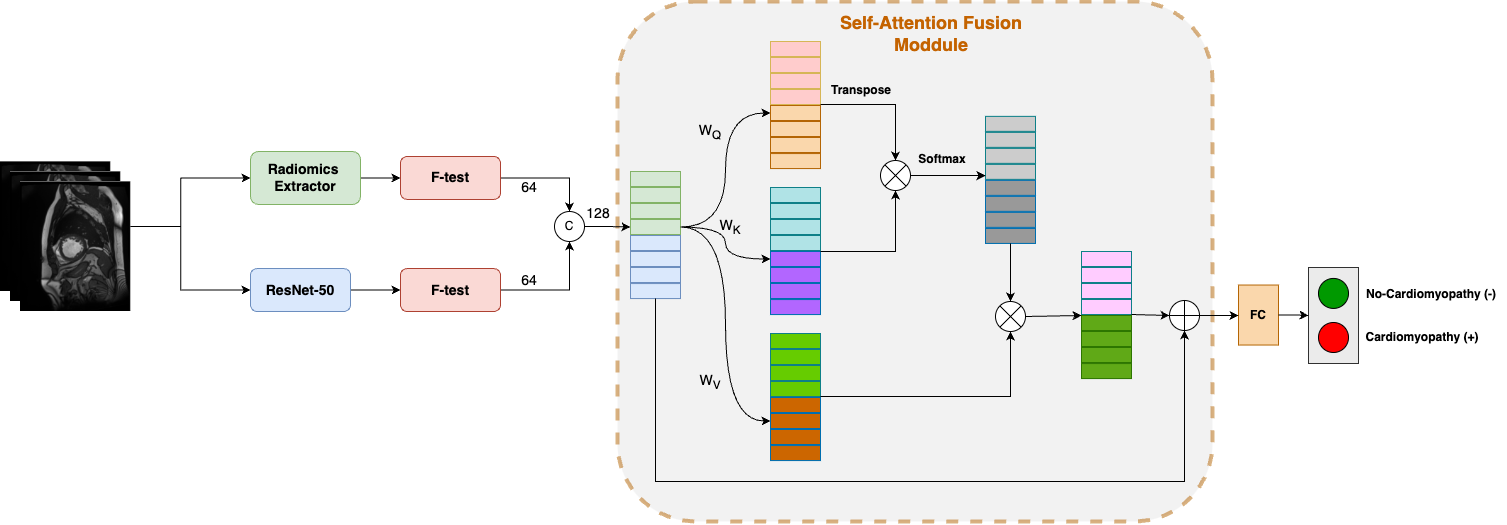
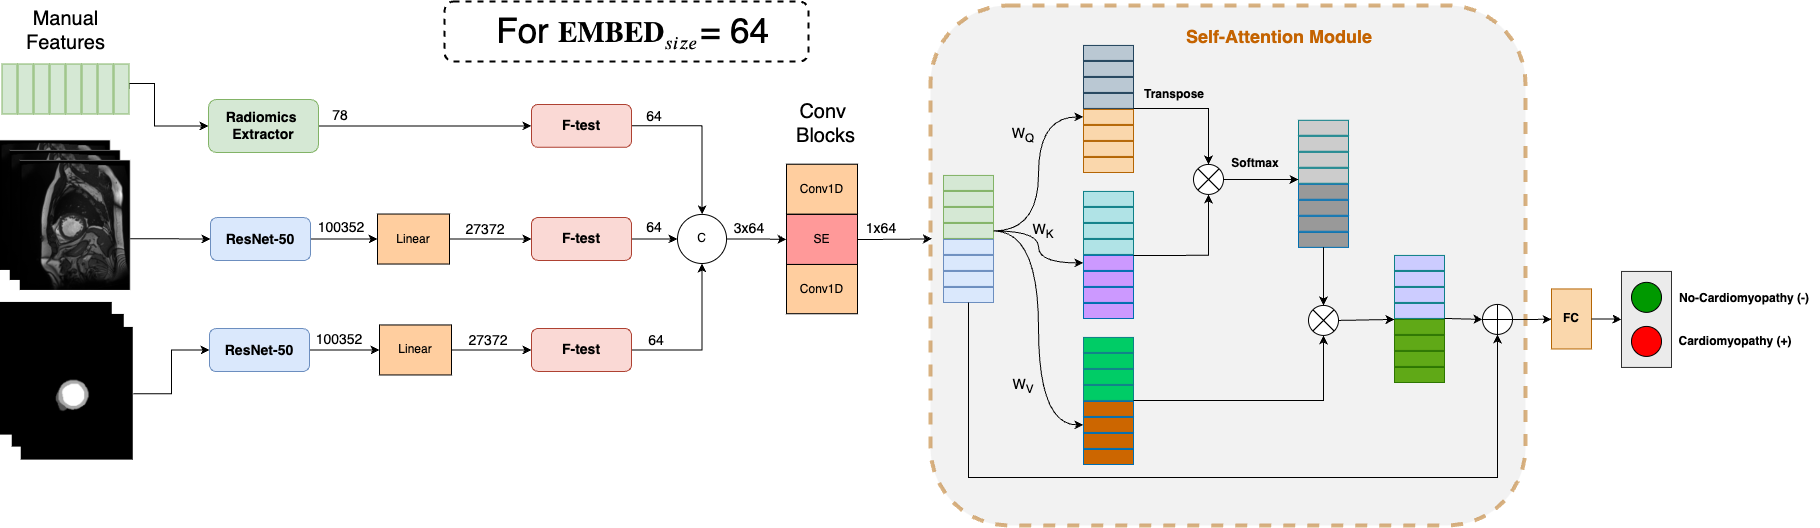
Ech chap 4

diff --git a/04-metodologia.tex b/04-metodologia.tex
@@ -1,12 +1,15 @@
 \chapter{METODOLOGIA} 
 \label{chap:metodologia}
 
-A metodologia deste trabalho visa propor e investigar arquiteturas de \gls{AP} que unificam características radiômicas e características profundas. Em uma primeira fase, será aplicado um modelo base ao conjunto de dados público para cadriomiopatia \gls{ACDC}. O modelo base selecionado consta nos trabalhos relacionados e  \cite{aiSelfAttentionBasedFusion2023} e o esquemático de sua arquitetura é visto na Figura \ref{fig:fig008}. Importante ressaltar que o trabalho em questão é aplicado no cenário de câncer de pulmão de células não pequenas e este trabalho as mesmas técnicas para o cenário de cardiomiopatia e com isto obter as percepções. 
+\textcolor{red}{
+< < -------------- CAPÍTULO READAPTADO - LER NOVAMENTE -------------- > >
+}
 
-Nesta primeira fase, foi aplicado o pré-processamento composto por diversas técnicas de aprendizado de máquina para extrair características manuais de imagens de RM e sua respectiva máscara, abrangendo textura, forma, escala de cinza, etc. Estas características serão chamadas, deste ponto em diante, de características radiômicas. Outra etapa de pré-processamento, processa as imagens de RM em uma rede \textit{ResNet50} pré-treinada, extraindo características que serão intituladas de características profundas. As características profundas encapsulam informações semânticas de alto nível e de representação das imagens de \gls{RMC}. Estas características são então fundidas em um vetor de características unificado e aplicado a um único bloco de autoatenção, e obtendo ao fim da arquitetura do modelo base, as classificação indicando se há ou não cardiomiopatia, ou seja, uma classificação binária.
+A metodologia deste trabalho visa propor e investigar arquiteturas de \gls{AP} que unificam características radiômicas e características profundas. O modelo base selecionado é uma versão adaptada do trabalho \cite{aiSelfAttentionBasedFusion2023}, encontrado nos trabalhos relacionados e o esquemático de sua arquitetura pode ser visto na Figura \ref{fig:fig008}. Importante ressaltar que o trabalho em questão é aplicado no cenário de câncer de pulmão de células não pequenas e este trabalho pretende aplicar o mesmo estudo no cenário de cardiomiopatia hipertrófica.
 
-Na segunda fase, foram feitas diversas adaptações ao modelo base com o intuito de aprimorar a robustez e a acurácia. Algumas adaptações feitas consistem no aumento do tamanho dos vetores semânticos, também conhecidos na literatura como \textit{embeddings}, seu tamanho foi mudado de 12 para 64 no intuito de preservar mais informações ao custo de aumento quase irrelevante de custo computacional. A concatenação dos \textit{embeddings} também foi adaptada se comparada ao modelo original. Na versão original a concatenação se dá na última dimensão enquanto a no modelo resultante do estudo se dá na primeira. Em termos práticos, na abordagem original dois vetores $1\text{x}12$ concatenados resultam em $1\text{x}24$, na abordagem adaptada resultam em $2\text{x}12$. A versão adaptada também conta com uma camada convolucional visando obter informação relevante entre os \textit{embeddings}. Uma camada de atenção seletiva também foi adicionada no formato de um bloco \gls{SE} que precedeo o bloco autoatenção. Testes com os hiperparâmetros também aprimoraram os resultados, ao aplicar a camada de autoatenção $N$ vezes ao invés de uma única vez como acontece no modelo base, também foi perceptível uma melhora nos resultados. Enquanto o bloco de seleção seletiva atua na relação entre os canais dos \textit{embeddings}, o bloco de autoatenção otimiza e pondera o vetor de características fundidas de forma eficaz. A Figura \ref{fig:fig015} confere o fluxograma do projeto ilustrando de forma esquemática as fases que serão atuadas.
+ O trabalho será dividido em duas fase. Na primeira fase, será aplicado um modelo base, conforme trabalho selecionado, ao conjunto de dados público \gls{ACDC}. Na etapa de pré-processamento da fase um, é aplicado diversas técnicas de aprendizado de máquina para extrair características manuais de imagens de RM e sua respectiva máscara, abrangendo textura, forma, escala de cinza, etc. Estas características serão chamadas, deste ponto em diante, de características radiômicas. Seguindo com no pré-processamento, as imagens de RM também são aplicadas a uma rede \textit{ResNet50} pré-treinada, extraindo características que serão intituladas de características profundas. As características profundas encapsulam informações semânticas de alto nível e de representação das imagens de \gls{RMC}. Estas características, radiômicas e profundas, são então fundidas em um vetor de características unificado e aplicado a um único bloco de autoatenção, e obtendo ao fim da arquitetura do modelo base, as classificação indicando se há ou não cardiomiopatia, ou seja, uma classificação binária. Isto compreende a fase um com as mesmas informações do trabalho e modelo originais.
 
+Na segunda fase, diversas adaptações foram aplicadas ao modelo base com o intuito de aprimorar a robustez e a acurácia. Algumas das adaptações feitas consistem no aumento do tamanho dos vetores semânticos, também conhecidos na literatura como \textit{embeddings}, seu tamanho foi variado também entre 12, 24, 48 e 64, valores testados de forma análoga a um hiperparâmetro, com a premissa de preservar mais das informações originais ao custo do aumento quase irrelevante de custo computacional. A concatenação dos \textit{embeddings} também foi adaptada se comparada ao modelo original. Na versão original a concatenação se dá na última dimensão enquanto que nas versões adaptadas se dá na primeira dimensão. Em termos práticos, na versão original dois vetores $1\text{x}12$ concatenados resultam em $1\text{x}24$, na abordagem adaptada resultam em $2\text{x}12$. A mudança na forma de concatenar é proposital pois a versão adaptada conta com uma camada convolucional inédita se comparada com a versão original, visando extrair informação relevante da junção dos \textit{embeddings}. A versão adaptada adiciona também uma camada de atenção seletiva no formato de um bloco \gls{SE} que precede o bloco de autoatenção. Outra mundaça na versão adaptada é o bloco de autoatenção ser aplicado $N$ vezes ao invés de uma única vez como acontece no modelo base trazendo uma perceptível melhora nos resultados. Lembrando que ambos mecanismos de atenção tem propostas diferentes, enquanto o bloco de atenção seletiva atua na relação entre os canais dos \textit{embeddings}, o bloco de autoatenção otimiza e pondera o vetor de características fundidas de forma eficaz. A intuição de aplicar mecanismos de atenção com propósitos diferentes vem do trabalho de \cite{yangNeuralNetworkDesign2024a}. A Figura \ref{fig:fig015} confere o fluxograma do projeto ilustrando de forma esquemática as fases que serão atuadas.
 
 \begin{figure}[h!]
     \centering
@@ -20,14 +23,13 @@ Na segunda fase, foram feitas diversas adaptações ao modelo base com o intuito
 \section{Bases de Dados} 
 \label{subsec:cap4_dataset}
 
-Duas bases de dados foram utilizadas no experimento. O primeiro conjunto de dados é o \gls{ACDC}\footnote{https://www.creatis.insa-lyon.fr/Challenge/acdc/databases.html}. O segundo conjunto de dados é o The Sunnybrook Cardiac Data (SCD) \footnote{https://www.cardiacatlas.org/sunnybrook-cardiac-data} \cite{radauEvaluationFrameworkAlgorithms2009}. Ambos conjuntos de dados são públicos e destinados a pesquisa.
-
+Duas bases de dados foram utilizadas no experimento. O primeiro conjunto de dados é o \gls{ACDC}\footnote{https://www.creatis.insa-lyon.fr/Challenge/acdc/databases.html}. O segundo conjunto de dados é o Sunnybrook Cardiac Data (SCD) \footnote{https://www.cardiacatlas.org/sunnybrook-cardiac-data} \cite{radauEvaluationFrameworkAlgorithms2009}. Ambos conjuntos de dados são públicos e destinados a pesquisa.
 
 %--------------------------------------------------------
 \subsection{Conjunto de Dados ACDC} 
 \label{subsec:cap4_acdc}
 
-O conjunto de dados \gls{ACDC} foi criado a partir de exames clínicos reais adquiridos no hospital universitário de Dijon (França). Os dados adquiridos foram totalmente anonimizados e tratados de acordo com as regulamentações estabelecidas pelo comitê ético local do hospital de Dijon. O conjunto de dados cobre várias patologias bem definidas com casos suficientes para (1) treinar adequadamente métodos de aprendizado de máquina e (2) avaliar claramente as variações dos principais parâmetros fisiológicos obtidos a partir de cine-RM (em particular volume diastólico e fração de ejeção). O conjunto de dados é composto por 150 exames (todos de pacientes diferentes) divididos em cinco subgrupos distribuídos de forma igualitária, sendo quatro patológicos e um grupo de sujeitos saudáveis. Dentre as cinco classes distintas, tem-se: \gls{DCM}, \gls{HCM}, \gls{NOR}, \gls{MINF} e \gls{RV}. As classes \gls{DCM} e \gls{HCM} são interpretadas como passíveis de \gls{CMH} e as demais; \gls{NOR}, \gls{MINF} e \gls{RV}; são interpretadas como o coração em condições normais, detalhes das classes podem ser verificados na Tabela \ref{tab:conditions}. 
+O conjunto de dados \gls{ACDC} foi criado a partir de exames clínicos reais adquiridos no hospital universitário de Dijon (França). Os dados adquiridos foram totalmente anonimizados e tratados de acordo com as regulamentações estabelecidas pelo comitê ético local do hospital de Dijon. O conjunto de dados cobre várias patologias bem definidas com casos suficientes para (1) treinar adequadamente métodos de aprendizado de máquina e (2) avaliar claramente as variações dos principais parâmetros fisiológicos obtidos a partir de cine-RM (em particular volume diastólico e fração de ejeção). O conjunto de dados é composto por 150 exames (todos de pacientes diferentes) divididos em cinco subgrupos distribuídos de forma igualitária, sendo quatro patológicos e um grupo de sujeitos saudáveis. Dentre as cinco classes distintas, tem-se: \gls{DCM}, \gls{HCM}, \gls{NOR}, \gls{MINF} e \gls{RV}. As classes \gls{DCM} e \gls{HCM} são interpretadas como passíveis de \gls{CMH} e as demais; \gls{NOR}, \gls{MINF} e \gls{RV}; são interpretadas como o coração em condições normais, detalhes das classes podem ser verificados na Tabela \ref{tab:conditions}. As máscara de segmentação também acompanham o conjunto de dados, para possíveis aplicações de segmentação. Os valores dos rótulos variam de 0 a 3 e representam voxels pertencentes ao fundo (0), à cavidade do ventrículo direito (1), ao miocárdio (2) e à cavidade do ventrículo esquerdo (3).
 
 \begin{table}[hbtp]
     \centering
@@ -72,9 +74,7 @@ O conjunto de dados \gls{ACDC} foi criado a partir de exames clínicos reais adq
 \end{table}
 
 
-Os dados encontram-se balanceados e a distribuição dos dados pode ser conferida na Tabela. \ref{tab:count_dataset}. É possível notar, que após agrupamento das classes como especificado, estas tornam-se minimamente desbalanceadas, em uma proporção de 40/60.
-
-Além disso, cada paciente vem com as seguintes informações adicionais: peso, altura, bem como os instantes das fases diastólica e sistólica \cite{bernardDeepLearningTechniques2018a}.
+Os dados tem composição balanceada e sua distribuição pode ser conferida na Tabela. \ref{tab:count_dataset}. É possível notar, que após agrupamento das classes como especificado, estas tornam-se minimamente desbalanceadas, em uma proporção de 40/60. As informações de cada também é composta pelas seguintes informações: peso, altura, bem como o instante da fase diastólica e sistólica \cite{bernardDeepLearningTechniques2018a}.
 
 \begin{table}[hbtp]
     \centering
@@ -98,11 +98,13 @@ Além disso, cada paciente vem com as seguintes informações adicionais: peso, 
 \end{table}
 
 
---------------------------------------------------------
+% --------------------------------------------------------
 \subsection{Conjunto de Dados Sunny} 
 \label{subsec:cap4_sunny}
 
-Os conjunto de dados  Sunny, também conhecidos como \textit{2009 Cardiac MR Left Ventricle Segmentation Challenge data}, consiste em 45 imagens de RM de um grupo misto de pacientes e patologias: saudáveis, hipertrofia, insuficiência cardíaca com infarto e insuficiência cardíaca sem infarto. Um subconjunto desses dados foi utilizado pela primeira vez no desafio de segmentação automatizada do miocárdio a partir de imagens de RM em eixo curto, realizado em um workshop do MICCAI em 2009. O conjunto completo de dados agora está disponível no banco de dados CAP com licença de domínio público \cite{radauEvaluationFrameworkAlgorithms2009}. Há quatro grupos patológicos neste conjunto de dados, que foram classificados no seguinte formato:
+Os conjunto de dados  Sunny, também conhecidos como \textit{2009 Cardiac MR Left Ventricle Segmentation Challenge data}, consiste em 45 imagens de RM de um grupo misto de pacientes e patologias: saudáveis, hipertrofia, insuficiência cardíaca com infarto e insuficiência cardíaca sem infarto. Um subconjunto desses dados foi utilizado pela primeira vez no desafio de segmentação automatizada do miocárdio a partir de imagens de RM em eixo curto, realizado em um workshop do MICCAI em 2009 \cite{radauEvaluationFrameworkAlgorithms2009}. 
+
+Há quatro grupos patológicos neste conjunto de dados, que foram classificados no seguinte formato:
 
 \begin{enumerate}
     \item Insuficiência cardíaca com infarto (\textbf{IC-I}): grupo com fração de ejeção (FE) < 40\% e evidência de realce tardio com gadolínio (Gd).
@@ -111,8 +113,7 @@ Os conjunto de dados  Sunny, também conhecidos como \textit{2009 Cardiac MR Lef
     \item Saudáveis (\textbf{N}): grupo com FE > 55\% e sem hipertrofia.
 \end{enumerate}
 
-\noindent Na tabela \ref{tab:sunny_stats} é conferido como se encontra distribuídos os 45 pacientes:
-
+\noindent A tabela \ref{tab:sunny_stats} demonstra como se encontra distribuídos os 45 pacientes e os valores relacionados as atividades cardiovasculares utilizados para a segmentação:
 \newline
 
 \begin{table}[h!]
@@ -129,7 +130,6 @@ Os conjunto de dados  Sunny, também conhecidos como \textit{2009 Cardiac MR Lef
 \caption*{Fonte: Adaptado de \cite{radauEvaluationFrameworkAlgorithms2009}.}
 \label{tab:sunny_stats}
 \end{table}
-
 
 
 %--------------------------------------------------------
@@ -150,7 +150,9 @@ Os conjunto de dados  Sunny, também conhecidos como \textit{2009 Cardiac MR Lef
 \section{Pré-Processamento}
 \label{subsec:cap4_preprocess}
 
-Na fase de pré-processamento será utilizado o conjunto de dados \gls{ACDC}. No \gls{ACDC} será separado aplicado três classe: \gls{CMH} do grupo HCM, \gls{CMD} do grupo HCM e NOR para os demais grupos. O conjuntos de \textit{frames} utilizados serão os definidos na fase diastólica e a quantidade de \textit{frames} é variada para cada paciente. As características radiômicas e profundas serão extraídas e posteriormente, será aplicado o \textit{F-Test} para selecionar as características mais relevantes, mantendo o mesmo número de ambas as partes. Por fim este resultado será concatenado e servirá de entrada para a rede proposta de autoatenção.
+Na fase de pré-processamento, foi utilizado o conjunto de dados \gls{ACDC}. O \gls{ACDC} originalmente tem cinco classes distintas e foi agrupado de forma que DCM e HCM indicam a classe cardiomiopatia hipertrófica e os demais rótulos NOR, MINF e RV, são classificados como normal. O conjunto de \textit{frames} utilizados são definidos na fase diastólica e a quantidade de \textit{frames} é variada para cada paciente de acordo como consta no conjunto de dados. As características radiômicas são extraídas utilizando a biblioteca \textit{PyRadiomics}\footnote{https://pyradiomics.readthedocs.io}. Utilizando esta ferramnta, pode se enviar como entrada o volume 3D das imagens cardíacas e o volume 3D da máscara e obter as características manuais extraídas abrangendo textura, forma, escala de cinza, etc.O resultado é um vetor com $78$ características. As características profundas são extraídas através de uma rede ResNet50 sem a última camada responsável pela classificação. Este processo é aplicado para cada fatia do volume 3D tanto para imagem cardíaca quanto para sua respectiva máscara tendo como resultado final um vetor de tamanho $100,352$. 
+
+Seguindo a receita do modelo base, é aplicado o \textit{F-Test} para redução de dimensionalidade das características profundas de $100,352 \to 27,372$ e características radiômicas de $78 \to \textbf{EMBED}_{size} \in \{24, 48, 64\}$. O valor de $\textbf{EMBED}_{size}$ agora pode variar, sendo considerado um hiperparâmetro nas versões adaptadas, e garante que todos os \textit{embeddings} possuem o mesmo valor. A concatenação é feita na última dimensão para o teste com modelo original e na última dimensão nas versões adaptadas. Vale ressaltar que diferente da versão do modelo base que só possui um vetor de características profundas, nas versões adaptadas tem-se um vetor adicional referente a máscara. 
 
 %---------------------------------------------------------
 \section{Extração de Características Radiômicas}
@@ -162,24 +164,32 @@ Serão extraídas características radiômicas de fase da diástole\footnote{A d
 \section{Extração de Características Profundas}
 \label{subsec:cap4_caracteristicas_profundas}
  
-Para extrair características profundas das imagens de \gls{RMC}, é utilizada a arquitetura pré-treinada de um \textit{ResNet50} sem sua última camada totalmente conectada, treinada no conjunto de dados \textit{ImageNet}. Estudos anteriores demonstraram que o pré-treinamento com \textit{ImageNet} pode melhorar o desempenho de tarefas de classificação de imagens médicas. \textit{ResNet50} é um modelo de rede neural convolucional profunda com 50 camadas que compreende muitos blocos residuais. Cada bloco contém módulos de convolução e uma conexão de salto que transfere a informação do bloco anterior para o próximo bloco. A conexão de salto ajuda a reter a informação semântica mais básica aprendida nas camadas anteriores, que de outra forma se tornaria abstrata devido à conexão de longa cadeia. A conexão de salto também evita o desaparecimento do gradiente nas camadas mais profundas ao fornecer um caminho alternativo para a retropropagação. A informação da conexão de salto é adicionada à informação calculada em cada bloco \cite{aiSelfAttentionBasedFusion2023}. Ao todo são 2048 características coletadas da saída deste modelo.
+Para extrair características profundas das imagens de \gls{RMC}, é utilizada a arquitetura pré-treinada de um \textit{ResNet50} sem sua última camada totalmente conectada, treinada no conjunto de dados \textit{ImageNet}. Estudos anteriores demonstraram que o pré-treinamento com \textit{ImageNet} pode melhorar o desempenho de tarefas de classificação de imagens médicas. \textit{ResNet50} é um modelo de rede neural convolucional profunda com 50 camadas que compreende muitos blocos residuais. Cada bloco contém módulos de convolução e uma conexão de salto que transfere a informação do bloco anterior para o próximo bloco. A conexão de salto ajuda a reter a informação semântica mais básica aprendida nas camadas anteriores, que de outra forma se tornaria abstrata devido à conexão de longa cadeia. A conexão de salto também evita o desaparecimento do gradiente nas camadas mais profundas ao fornecer um caminho alternativo para a retropropagação. A informação da conexão de salto é adicionada à informação calculada em cada bloco \cite{aiSelfAttentionBasedFusion2023}. Ao todo são $100,352$ características coletadas da saída deste modelo.
 
 %---------------------------------------------------------
 \section{Concatenação}
 \label{subsec:cap4_concatenacao}
 
-Um vez em posse das característias radiômicas, é aplicado um \textit{F-Test} tanto às 78 características radiômicas quanto às 2048 características profundas, reduzindo cada um dos vetores ao espaço de 64 características. No método de fusão convencional, simplesmente é concatenado os dois vetores de características como na Eq. \ref{eq:concat}, onde \textit{Concat} simplesmente concatena os dois vetores. Unificando ambos os vetores obtemos o valor resultante de 128 características o qual será enviado ao mecanismo de autoatenção.
+Um vez em posse das característias radiômicas, é aplicado um \textit{F-Test} tanto às 78 características radiômicas quanto às 2048 características profundas, reduzindo cada um dos vetores ao espaço de 64 características. No método de fusão convencional, simplesmente é concatenado os dois vetores de características como na Eqquação \ref{eq:concat}, onde \textit{Concat} simplesmente concatena os dois vetores. Unificando os vetores, o resultado é baseado na dimensão escolhida de concatenação escolhida. O resultas é enviado aos mecanismos de atenção, bloco de autoatenção no modelo original, bloco de \gls{SE} e após bloco de autoatenção no modelo adaptado.
 
 \begin{equation}
-F_{hd} = \textit{Concat}(F_h, F_d)
+F_{hd} = \textit{Concat}(F_h, F_d, dim) \quad dim \in \{0,1\}
 \label{eq:concat}
 \end{equation}
 
 %---------------------------------------------------------
-\section{Modelo de Autoatenção}
-\label{subsec:cap4_mod_self_attention}
+\section{Módulo de Atenção Seletiva}
+\label{subsec:cap4_mod_selective_attn}
 
-Neste trabalho é empregado o mecanismo de autoatenção para aprender a importância de cada característica e capturar suas dependências de longo alcance. Como ilustrado na Figura \ref{fig:fig011}, o módulo de fusão de autoatenção é utilizado para mapear uma consulta ($Q$), chave ($K$) e valor ($V$) para um valor de atenção. São utilizadas as 128 características concatenadas $F_{hd}$ como \textit{tokens} e projetada cada característica em três matrizes aprendíveis: matriz chave $K$, matriz consulta $Q$ e matriz de valor $V$ por produto escalar com as matrizes $W_{Q}$, $W_{K}$ e $W_{V}$. Logo os valores $Q$, $K$, $V$ são denotados como $W_{Q}F_{gd}$, $W_{K}F_{gd}$, $W_{V}F_{gd}$ respectivamente, onde $W_{Q}$, $W_{K}$ e $W_{V}$ representam a transformação linear para as matrizes $Q$, $K$ e $V$. O módulo de fusão baseado em autoatenção é definido como segue na Equação \ref{eq:attention}, onde $d_{k}$ é a dimensão do valor de $K$. Sem utilizar operações recorrentes ou convolucionais, o módulo de fusão de autoatenção pode modelar as dependências de longo prazo entre as características de entrada.
+A atenção seletiva desempenha um papel crucial na melhoria do desempenho de modelos de aprendizado profundo ao permitir que eles foquem em características mais relevantes nas representações internas. Especificamente, o bloco \gls{SE} é projetado para recalibrar adaptativamente os canais das representações, atribuindo pesos maiores às características mais informativas. Esse mecanismo opera em duas etapas principais: primeiro, reduz a dimensionalidade das características globais (\textit{squeeze}) para capturar o contexto geral, e, em seguida, aplica um mecanismo de excitação (\textit{excitation}) para ajustar os pesos de cada canal com base na importância relativa. Ao integrar blocos SE em uma arquitetura, o modelo pode aprimorar sua capacidade de discriminar padrões relevantes e suprimir ruídos ou informações irrelevantes, resultando em maior precisão e eficiência no processamento dos dados \cite{huSqueezeandExcitationNetworks2018}.
+
+Sendo o bloco \gls{SE} adicionado apenas na versão adaptada, visando aprimorar os resultados, o vetor resultando da concatenação é $3\times64$ se assumirmos $\textbf{EMBED}_{size} = 64$. Uma camada convolucional de 1D é aplicada, com número de canais igual a $16$, \textit{kernel} igual a 3, \textit{stride} igual a $1$ e \textit{padding} igual a $1$ para não diminuir as dimensões iniciais. Tendo como saída $16$ canais, é aplicado o bloco \gls{SE} para identificar os canais mais relevantes e escalar a entrada original, ou seja, a saída do bloco de convolução anterior. O bloco \gls{SE} possui um parâmetro $r$ de redução de dimensionalidade a ser configurado e foi utilizado o valor $16$ conforme o artigo original sugere. Um segundo bloco de convolução é aplicada aos mesmo moldes do anterior porém, com um único canal, assim temos umv vetor resultante achatado que pode agora servir de entrada para o próximo bloco, o de autoatenção.
+
+%---------------------------------------------------------
+\section{Módulo de Autoatenção}
+\label{subsec:cap4_mod_self_attnn}
+
+O mecanismo de autoatenção foi empregado com a responsabilidade de aprender a importância de cada característica e capturar suas dependências de longo alcance. Como ilustrado na Figura \ref{fig:fig011}, o módulo de autoatenção é utilizado para mapear uma consulta ($Q$), chave ($K$) e valor ($V$) para um valor de atenção. São utilizadas $24$ características concatenadas $F_{hd}$ no modelo original e $\textbf{EMBED}_{size}$ características no modelo adaptado. Do vetor resultante, é projetada cada característica em três matrizes aprendíveis: matriz chave $K$, matriz consulta $Q$ e matriz de valor $V$ pelo produto escalar com suas respectivas matrizes de peso $W_{Q}$, $W_{K}$ e $W_{V}$. Logo os valores $Q$, $K$, $V$ são denotados como $W_{Q}F_{gd}$, $W_{K}F_{gd}$, $W_{V}F_{gd}$ respectivamente, onde $W_{Q}$, $W_{K}$ e $W_{V}$ representam a transformação linear para as matrizes $Q$, $K$ e $V$. O módulo de autoatenção é definido como segue na Equação \ref{eq:attention}, onde $d_{k}$ é a dimensão do valor de $K$. Sem utilizar operações recorrentes ou convolucionais em específico, o módulo de autoatenção pode modelar as dependências de longo prazo entre as características de entrada.
 Este módulo calcula de forma adaptativa os pesos entre as características com base em sua importância e relevância, capturando de forma mais abrangente as associações entre características radiômicas e profundas. Tal processo realça a capacidade expressiva das características fundidas e permite que o modelo foque mais precisamente nas características mais informativas para prever \gls{CMH} e reduzir a influência de características irrelevantes na previsão. Além disso, o modelo pode alocar dinamicamente atenção a diferentes amostras de imagens de \gls{RMC}. Essa flexibilidade permite com que o modelo se adapte melhor à representação de características de diferentes amostras, melhorando a precisão e a generalização da previsão.
 
 A função de perda utilizada utilizada no modelo é a função de entropia cruzada binária, do termo  \gls{BCE}, que é calculada pela Equação. \ref{eq:bce} onde $\mathcal{L}_{bce}$ denota o \gls{BCE}, $N$ denota o número de imagens de \gls{RMC}, $r$ denota a classe alvo de \gls{CMH} e $\hat{r}$ o valor previsto pelo modelo de \gls{CMH}, 1 indica indícios de \gls{CMH} e 0 sua ausência.
@@ -222,12 +232,13 @@ Também é calculada a \gls{AUC} que é um gráfico com a habilidade de diagnost
 \section{Arquitetura Proposta}
 \label{subsec:cap4_architecture}
 
-O esquemático da arquitetura proposta pode ser conferida na Figura \ref{fig:fig011}. A imagens de \gls{RMC} são expostas ao seletor de características via \textit{F-Test}, as características selecionadas são concatenadas e enviadas ao módulo de fusão de autoatenção, por fim uma camada linear de 128 características precede um camada linear com um único neurônio para a classificação binária. A arquitetura proposta tem como base o trabalho de \cite{aiSelfAttentionBasedFusion2023}.
+O esquemático da arquitetura proposta pode ser conferida na Figura \ref{fig:fig011}. A características profundas são extraídas das imagens e máscaras via ResNet50 e sofrem uma transformação linear com o valor de $27372$ conforme trabalho original. As características radiômicas são extraídas via aplicação de diversos modelos estatísticos resultando no valor de $78$. Um conjuntos de F-Test são aplicados nos vetores para garantir que possuam o mesmo tamanho, tamanho este decidido pelo parâmetro $\textbf{EMBED}_{size}$. As características selecionadas são concatenadas e enviadas ao módulo de convolução composto respectivamente por: convolução 1D, bloco \gls{SE} e convolução 1D. A primeira convolução converte o número de canais para $16$, o bloco \gls{SE} mantém a dimensionalidade e a segunda convolução converte os canais de $16$ para $1$. O processo segue no módulo se auto atenção e, por fim, tem-se uma camada linear com um único neurônio para a classificação binária. A arquitetura proposta tem como base o trabalho de \cite{aiSelfAttentionBasedFusion2023}.
 
 \begin{figure}[htbp]
     \centering
-    \caption{Arquitetura Proposta}
-    \includegraphics[width=1\textwidth]{figures/fig011.png}
+    \caption{Arquitetura Adaptada Proposta}
+    % \includegraphics[width=1\textwidth]{figures/fig011.png}
+    \includegraphics[scale=0.26]{figures/fig011.png}
     \caption*{Fonte: Autor}
     \label{fig:fig011}
 \end{figure}
@@ -236,4 +247,6 @@ O esquemático da arquitetura proposta pode ser conferida na Figura \ref{fig:fig
 \section{Considerações Finais do Capítulo}
 \label{sec:cap4_consideracoes_finais}
 
-Como considerações, destacam-se o uso de base de dados pública, com dados de pacientes incluindo o conjuntos de fatias que identificam a ação de sístole e diástole do coração. É aplicado pré-processamento do qual é extraído manualmente 78 características radiômicas, características estas que analisam textura, níveis e variações dos tons de cinza incluindo diversas estatísticas como de primeira ordem e o \gls{GLCM}. Ainda em fase de pré-processamento é extraída as características profundas oriundas do modelo de visão \textit{ResNet50}, com os pesos treinados na base de dados da \textit{ImageNet}. É removida a última camada linear da \textit{ResNet50} resultando ao seu final, sem a camada classificadora, 2048 características. Em posse de ambas as características, é aplicada a técnica de \textit{F-Test} para obter as 64 características mais relevantes e, após, concatená-las obtendo um vetor de características de 128 características. Este vetor é exposto ao módulo de fusão com autoatenção, identificando as características mais determinantes independente de espacialidade. 
+Como considerações, destacam-se o uso de base de dados pública, com dados de pacientes incluindo o conjuntos de fatias que identificam a ação de sístole e diástole do coração. É aplicado pré-processamento do qual é extraído manualmente 78 características radiômicas, características estas que analisam textura, níveis e variações dos tons de cinza incluindo diversas estatísticas como de primeira ordem e o \gls{GLCM}. Ainda em fase de pré-processamento é extraída as características profundas oriundas do modelo de visão \textit{ResNet50}, com os pesos treinados na base de dados da \textit{ImageNet}. É removida a última camada linear da \textit{ResNet50} resultando ao seu final, sem a camada classificadora, $100,352$ características. 
+
+A adaptação inicia ao se adicionar os \textit{embeddings} das máscaras também ao modelo, poder variar o vetor tamanho dos vetores de características, pois no modelo original eram apenas $12$. Os vetores são então extraídos via \textit{F-Test}, concatenados e inseridos no novo bloco convolucional. Este bloco possui um bloco \gls{SE} responsável pela atenção seletiva, dando importância aos canais mais pertinentes. Por fim o módulo de autoatenção, confere as relações intrínsecas das transformações anteriores, identificando as características mais determinantes independente de espacialidade e a classificação é apresentada.
